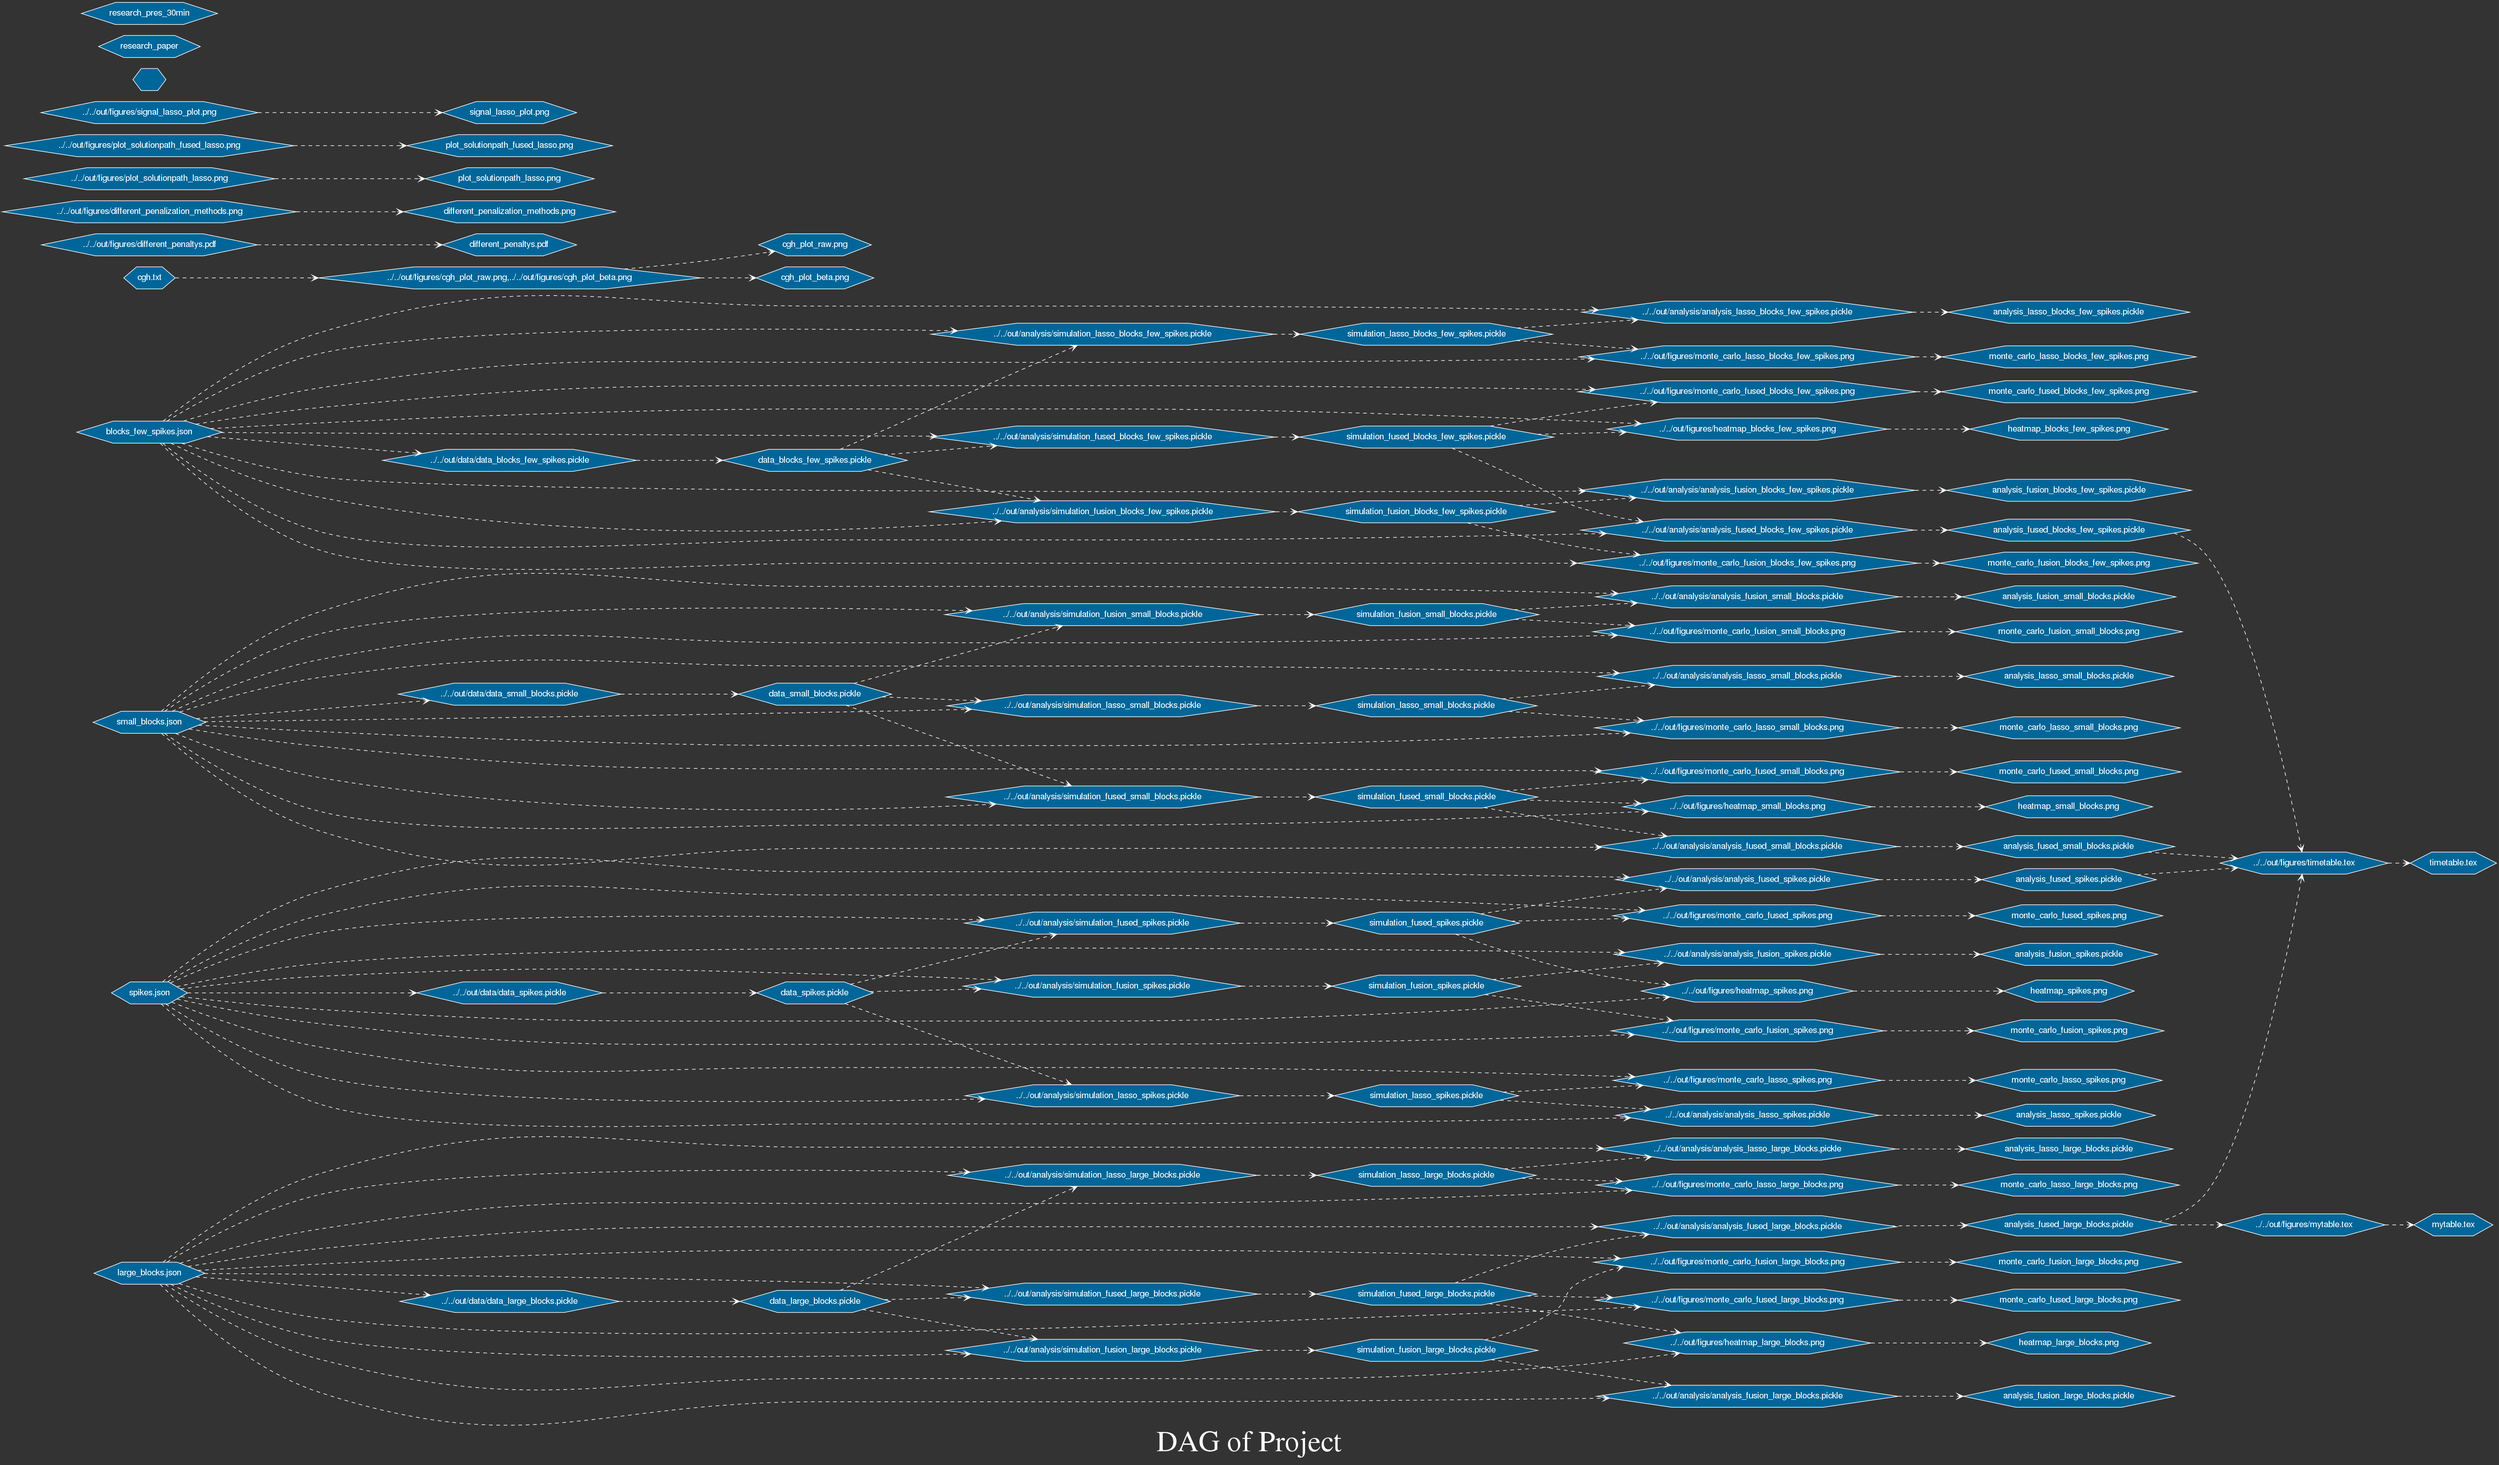
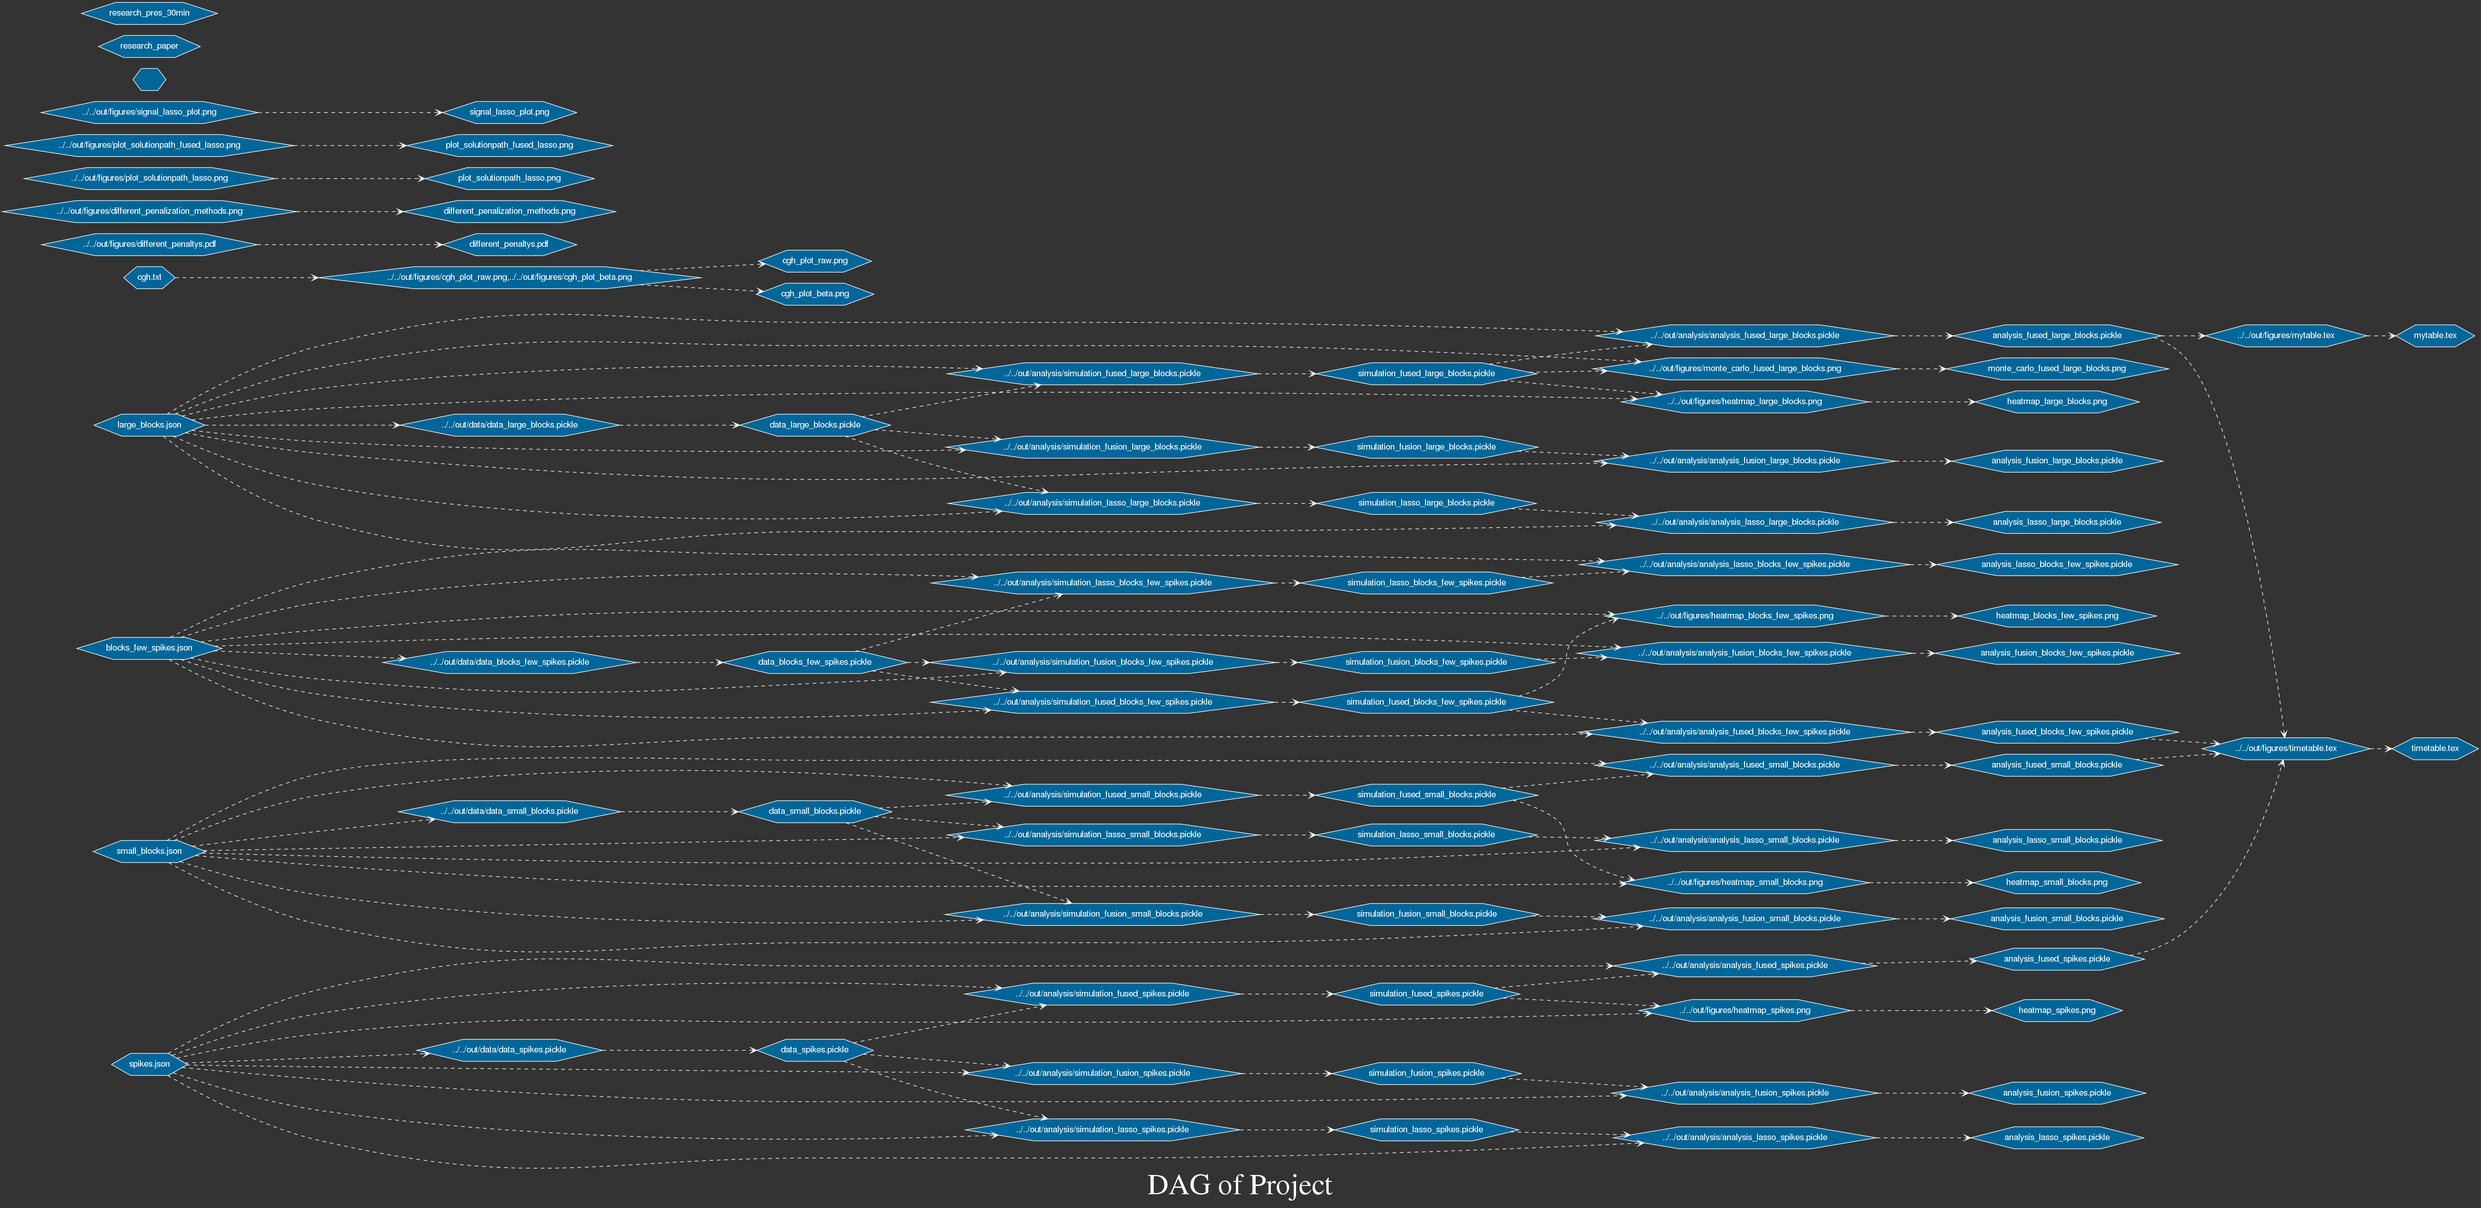
Worked on plot/tex dependencies.

diff --git a/src/paper/research_paper.tex b/src/paper/research_paper.tex
@@ -173,10 +173,7 @@ showstringspaces=false            %
 \pagenumbering{arabic}
 \addtocontents{toc}{\protect\setcounter{tocdepth}{2}}
 \section{Introduction}
-%\input{../../bld/out/figures/mytable.tex}
-%\input{../../bld/out/figures/timetable.tex}
 
-%\includegraphics[width=\textwidth]{../../bld/out/figures/outfile}
 
 
 
@@ -707,10 +704,9 @@ exceeds. This could be interpreted such that if it is not sure if a
 $\beta$-structure exists, fused lasso might still deliver viable results if applied on a suited grid for cross-validation.
 
 \begin{figure}
-	\centering		\includegraphics[width=0.7\textwidth]{../../src/sandbox/figures/plot_fused}
+	\centering		\includegraphics[width=0.7\textwidth]{../../out/figures/plot_fused.png}
 \caption{Fused Lasso estimator applied to the four settings.}
 \end{figure}
-
 \subsection{Monte Carlo Simulation}
 
 We conducted a Monte-Carlo simulation on the large blocks setting described above, to investigate the distribution of some specific estimated coefficients. The design matrix and error term were sampled from a standard normal distribution.  In each iteration, we generated new error terms, while the design matrix remained fixed. In this setup, the block structure was estimated 1000 times where the penalty constants were chosen by the grid-cv method.  In particular, we were interested in the distribution of four different points in the block structure. Namely, betas which are inside a block denoted by 'Center of the block', inside a block but at the edge of it 'Edge of the block', coefficients with value zero but which are next to a block 'Neighbouring to the block' and coefficients which are not next to a block 'Zero'. 
@@ -729,9 +725,7 @@ We observe that for both coefficients inside the block it seems like the estimat
 \begin{table}
 	\centering
 	\scriptsize
-	\input{../../src/sandbox/figures/mytable.tex}
-	%\input{mytable.tex}
-	
+	\input{../../out/figures/mytable.tex}	
 	\caption{Results of the simulation study.}
 \end{table}
 \section{Real Data Application} \label{sec: real data}
@@ -749,10 +743,9 @@ If we regress the copy number on the genes, we have $p=n$.
 Also, we expect the underlying vector of true copy numbers $\beta$ to be piecewise constant over contiguous regions of a chromosome. 
 The result $\hat{\beta}_j$ of the fused lasso estimation can be interpreted as the estimated DNA copy number for gene $j$. In this setup the penalty constant $s_1$ controls the overall amount of alteration of the  DNA copy number and $s_2$ the frequency of the changes.
 Applying the fused lasso estimator with the penalty terms $s_1 = 160$ and $s_2 = 15$ replicates the findings of \citep{spatial}, our result is visualized in figure \ref{cghdata}. The estimator suggests a main region, where DNA sequence copy number gains have possibly taken place and also wide regions of losses. Note that the fused lasso detects the region of gains although it is narrow.
-
 \begin{figure}
 	\centering
-	\includegraphics[width=0.6\textwidth]{../../src/sandbox/figures/cgh_plot_beta.png}
+	\includegraphics[width=0.6\textwidth]{../../out/figures/cgh_plot_beta.png}
 	\caption{CGH Data}
 	\label{cghdata}
 \end{figure}
@@ -1237,14 +1230,14 @@ As $\lambda_1$ was chosen arbitrarily in the proof it holds for all $\lambda_1 >
 
 \begin{figure}[h]
 	\centering
-	\includegraphics[width=0.7\textwidth]{../../src/sandbox/figures/lasso_penalty}
+	\includegraphics[width=0.7\textwidth]{../../out/figures/Geogebra/lasso_penalty}
 	\caption{Lasso penalty and contour lines of least squares for $p=2$.}
 	\label{lassopenalty}
 \end{figure}
 
 \begin{figure}[h]
 	\centering
-	\includegraphics[width=0.5\textwidth]{../../src/sandbox/figures/fused_and_lasso_penalty}
+	\includegraphics[width=0.5\textwidth]{../../out/figures/Geogebra/fused_and_lasso_penalty}
 	\caption{Lasso penalty (red) and fused lasso penalty (gray)}
 	\label{lassopenalty}
 \end{figure}
@@ -1254,14 +1247,14 @@ As $\lambda_1$ was chosen arbitrarily in the proof it holds for all $\lambda_1 >
 \subsubsection{Solution paths}
 \begin{figure}
 	\centering
-	\includegraphics[width=.7\textwidth]{../../src/sandbox/figures/plot_solutionpath_lasso}
+	\includegraphics[width=.7\textwidth]{../../out/figures/plot_solutionpath_lasso.png}
 	\caption{Solution path of the lasso}
 	\label{fig:sollasso}
 \end{figure}
 
 \begin{figure}[h]
 	\centering
-	\includegraphics[width=0.7\textwidth]{../../src/sandbox/figures/plot_solutionpath_fused_lasso}
+	\includegraphics[width=0.7\textwidth]{../../out/figures/plot_solutionpath_fused_lasso.png}
 	\caption{Solution path of the fused lasso for fixed $\lambda_1$ and $log(\lambda_2)$.}
 	\label{lassopenalty}
 \end{figure}
@@ -1272,19 +1265,19 @@ As $\lambda_1$ was chosen arbitrarily in the proof it holds for all $\lambda_1 >
 \begin{figure}[h]
 	\centering
 	\begin{subfigure}[c]{0.45\textwidth}
-		\includegraphics[width=1.1\textwidth]{../../src/sandbox/figures/heatmap_blocks_few_spikes_fused}
+		\includegraphics[width=1.1\textwidth]{../../out/figures/heatmap_blocks_few_spikes}
 		\subcaption{Blocks with a few spikes}
 	\end{subfigure}
 	\begin{subfigure}[c]{.45\textwidth}
-		\includegraphics[width=1.1\textwidth]{../../src/sandbox/figures/heatmap_large_blocks_fused}
+		\includegraphics[width=1.1\textwidth]{../../out/figures/heatmap_large_blocks}
 		\subcaption{Large Blocks}
 	\end{subfigure}
 	\begin{subfigure}[c]{.45\textwidth}
-		\includegraphics[width=1.1\textwidth]{../../src/sandbox/figures/heatmap_small_blocks_fused}
+		\includegraphics[width=1.1\textwidth]{../../out/figures/heatmap_small_blocks}
 		\subcaption{Small blocks}
 	\end{subfigure}
 	\begin{subfigure}[c]{.45\textwidth}
-		\includegraphics[width=1.1\textwidth]{../../src/sandbox/figures/heatmap_spikes_fused}
+		\includegraphics[width=1.1\textwidth]{../../out/figures/heatmap_spikes}
 		\subcaption{Spikes}
 	\end{subfigure}
 	\caption{Blocks with a few spikes}
@@ -1292,39 +1285,39 @@ As $\lambda_1$ was chosen arbitrarily in the proof it holds for all $\lambda_1 >
 \end{figure}
 
 
-\begin{figure}[h]
-	\centering
-	\includegraphics[width=0.6\textwidth]{../../src/sandbox/figures/heatmap_large_blocks_fused}
-	\caption{Large Blocks}
-\end{figure}
-
-\begin{figure}[h]
-	\centering
-	\includegraphics[width=0.6\textwidth]{../../src/sandbox/figures/heatmap_small_blocks_fused}
-	\caption{Small blocks}
-\end{figure}
-\begin{figure}[h]
-	\centering
-	\includegraphics[width=0.6\textwidth]{../../src/sandbox/figures/heatmap_spikes_fused}
-	\caption{Spikes}
-\end{figure}
+%\begin{figure}[h]
+%	\centering
+%	\includegraphics[width=0.6\textwidth]{../../src/sandbox/figures/heatmap_large_blocks_fused}
+%	\caption{Large Blocks}
+%\end{figure}
+%
+%\begin{figure}[h]
+%	\centering
+%	\includegraphics[width=0.6\textwidth]{../../src/sandbox/figures/heatmap_small_blocks_fused}
+%	\caption{Small blocks}
+%\end{figure}
+%\begin{figure}[h]
+%	\centering
+%	\includegraphics[width=0.6\textwidth]{../../src/sandbox/figures/heatmap_spikes_fused}
+%	\caption{Spikes}
+%\end{figure}
 
 \clearpage
 \FloatBarrier
 \subsubsection{Estimation}
 
 	\begin{figure}[h]
-		\includegraphics[width=\textwidth]{../../src/sandbox/figures/plot_fusion}
+		\includegraphics[width=\textwidth]{../../out/figures/plot_fusion.png}
 		\caption{Fusion estimator applied to the four settings.}
 	\end{figure}
 
 \begin{figure}[h]
-\includegraphics[width=\textwidth]{../../src/sandbox/figures/plot_lasso}
+\includegraphics[width=\textwidth]{../../out/figures/plot_lasso.png}
 \caption{Lasso estimator applied to the four settings.}	
 \end{figure}
 
 \begin{figure}[h]
-	\includegraphics[width=\textwidth]{../../src/sandbox/figures/monte_carlo.png}
+	\includegraphics[width=\textwidth]{../../out/figures/monte_carlo_fused_large_blocks.png}
 	\caption{Results of Monte-Carlo simulation..}	
 \end{figure}
 

diff --git a/src/analysis/monte_carlo.py b/src/analysis/monte_carlo.py
@@ -7,15 +7,80 @@ from sklearn.model_selection import GridSearchCV
 from bld.project_paths import project_paths_join as ppj
 import matplotlib.pyplot as plt
 
+# if __name__ == "__main__":
+#     """ waf """
+#     sim_name = sys.argv[2]
+#     reg_name = sys.argv[1]
+#     with open(ppj("OUT_ANALYSIS", "simulation_{}_{}.pickle".
+#                   format(reg_name, sim_name)), "rb") as in12_file:
+#                   analysis = pickle.load(in12_file)
+#
+#     sim_dict = json.load(open(ppj("IN_MODEL_SPECS", sim_name + ".json"),
+#                              encoding="utf-8"))
+#
+#
+#     """Plot distribution."""
+#     beta = analysis[1][:,1]   #true_beta[:, 1]  # nimm ein echtes beta
+#     penalty_cv = analysis[2]
+#
+#
+#
+#     p = sim_dict["p"]
+#     n = sim_dict["n"]
+#     s1_min = sim_dict["s1_min"]
+#     s1_max = sim_dict["s1_max"]
+#     s2_min = sim_dict["s2_min"]
+#     s2_max = sim_dict["s2_max"]
+#     num_simulations = 200    #sim_dict['num_simulations']
+#
+#     beta_container = np.ones((p, num_simulations))
+#     mean_x = np.zeros(p)
+#     cov_X = np.identity(p)
+#     X = np.random.multivariate_normal(mean_x, cov_X, n)
+#
+#     for j in range(num_simulations):
+#
+#         eps = np.random.rand(n)
+#         y = np.matmul(X, beta) + eps
+#         beta_container[:, j] = fused_lasso_primal(y, X, penalty_cv[0], penalty_cv[1])
+#
+#
+#
+#     """Plot distribution of beta_j before block at break of block and inside block"""
+#     list_index = []
+#     for ch in range(p):
+#         if ch == (p-4):
+#             list_index = [4, 7, 9, 12]
+#             break
+#
+#         if (beta[ch] == 0) & (beta[(ch+1)] == 0) & (beta[(ch+2)] != 0) & (beta[(ch+3)] != 0):
+#             list_index = [ch+3, ch, ch+2, ch+1]
+#             break
+#
+#     fig, axes = plt.subplots(2, 2)
+#
+#     axes[0, 0].set_title('center')
+#     axes[0, 0].hist(beta_container[list_index[0], :])
+#
+#     axes[1, 0].set_xlabel('zero')
+#     axes[1, 0].hist(beta_container[list_index[1], :])
+#
+#     axes[0, 1].hist(beta_container[list_index[2], :])
+#     axes[0, 1].set_title('block_in')
+#
+#     axes[1, 1].hist(beta_container[list_index[3], :])
+#     axes[1, 1].set_xlabel('block_out')
+#
+#     plt.savefig(ppj("OUT_FIGURES", "monte_carlo_{}_{}.png".format(reg_name, sim_name)))
+
+
 if __name__ == "__main__":
     """ waf """
-    sim_name = sys.argv[2]
-    reg_name = sys.argv[1]
-    with open(ppj("OUT_ANALYSIS", "simulation_{}_{}.pickle".
-                  format(reg_name, sim_name)), "rb") as in12_file:
+
+    with open(ppj("OUT_ANALYSIS", "simulation_fused_large_blocks.pickle"), "rb") as in12_file:
                   analysis = pickle.load(in12_file)
 
-    sim_dict = json.load(open(ppj("IN_MODEL_SPECS", sim_name + ".json"),
+    sim_dict = json.load(open(ppj("IN_MODEL_SPECS", "large_blocks.json"),
                              encoding="utf-8"))
 
 
@@ -71,4 +136,4 @@ if __name__ == "__main__":
     axes[1, 1].hist(beta_container[list_index[3], :])
     axes[1, 1].set_xlabel('block_out')
 
-    plt.savefig(ppj("OUT_FIGURES", "monte_carlo_{}_{}.png".format(reg_name, sim_name)))
+    plt.savefig(ppj("OUT_FIGURES", "monte_carlo_fused_large_blocks.png"))

diff --git a/src/model_code/flestimator.py b/src/model_code/flestimator.py
@@ -16,11 +16,11 @@ class FusedLassoEstimator(BaseEstimator, RegressorMixin):
     Technically this is a Convex optimization problem that is solved by cvxpy.
     """
 
-    def __init__(self, s1, s2, beta):
+    def __init__(self, s1, s2):
         """Call when initializing the Fused Lasso Estimator."""
         self.s1 = s1
         self.s2 = s2
-        self.beta = beta
+        
 
     def fit(self, X, y=None):
         """Fit unkown parameters *beta* to *X* and *y*.

diff --git a/src/final/project_dependency_graph.py b/src/final/project_dependency_graph.py
@@ -4,12 +4,9 @@ from pathlib import Path
 
 import graphviz as gv
 
-#from waflib import Utils
+from waflib import Utils
 
-import sys
-sys.path.insert(0, '/home/christopher/Dokumente/rm_fused_lasso/.mywaflib/waflib')
 
-import Utils
 
 
 
